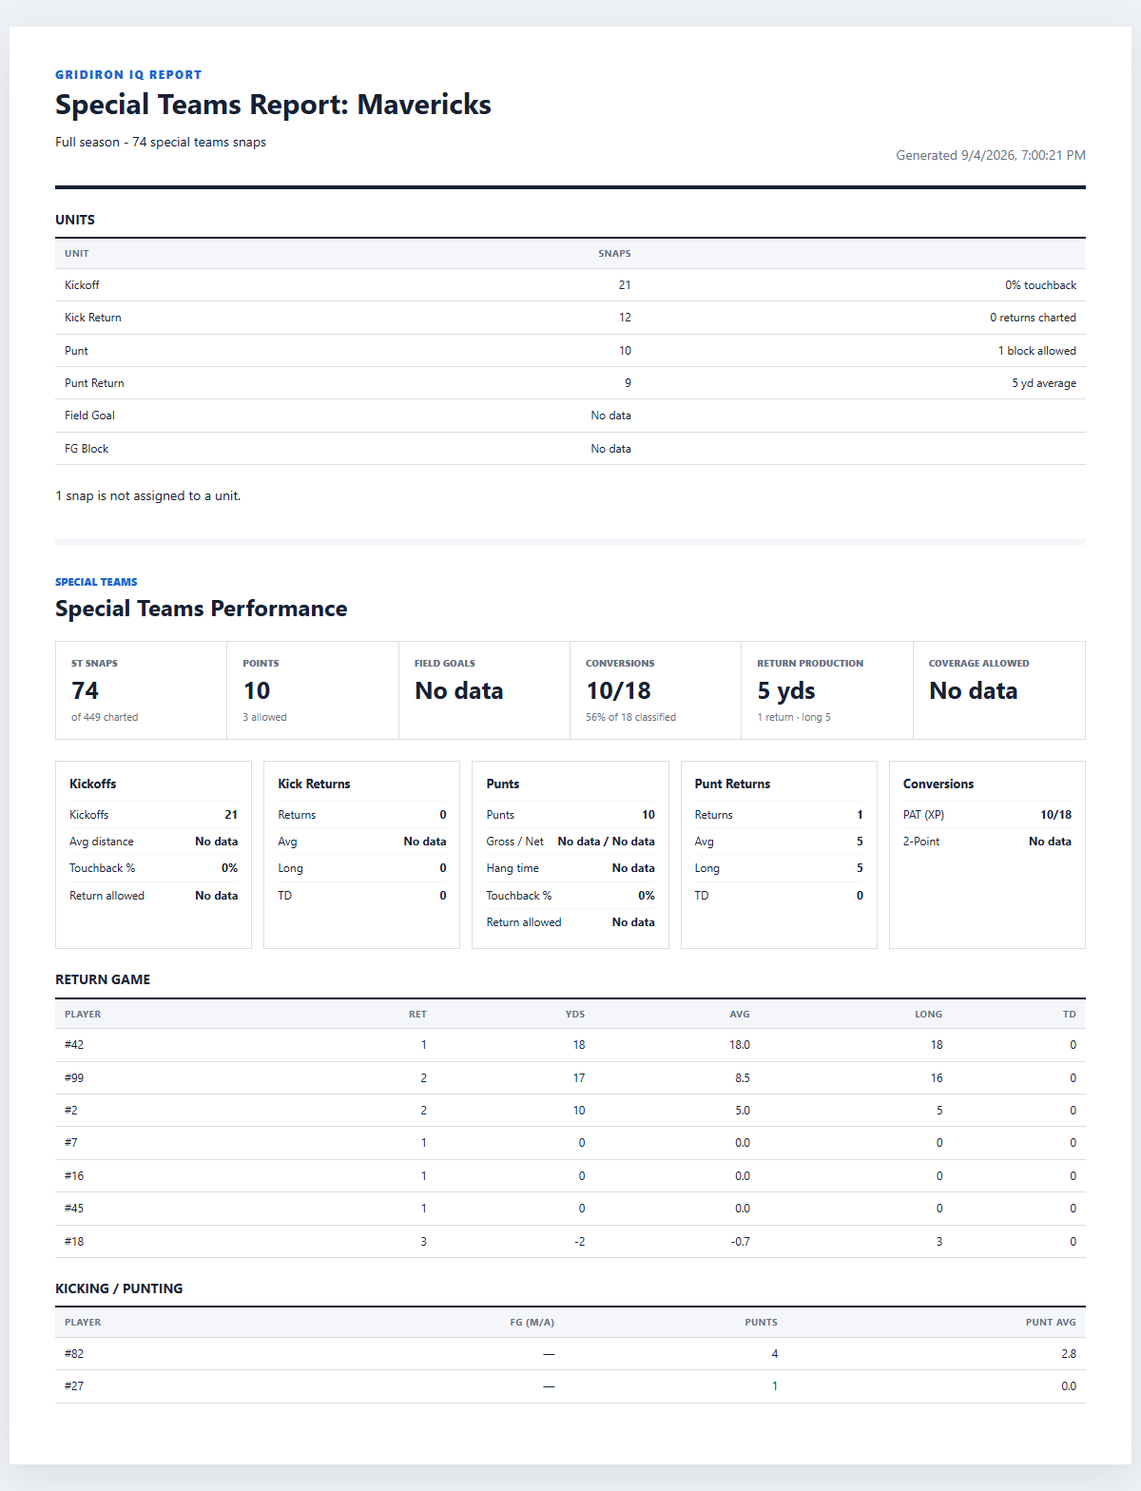
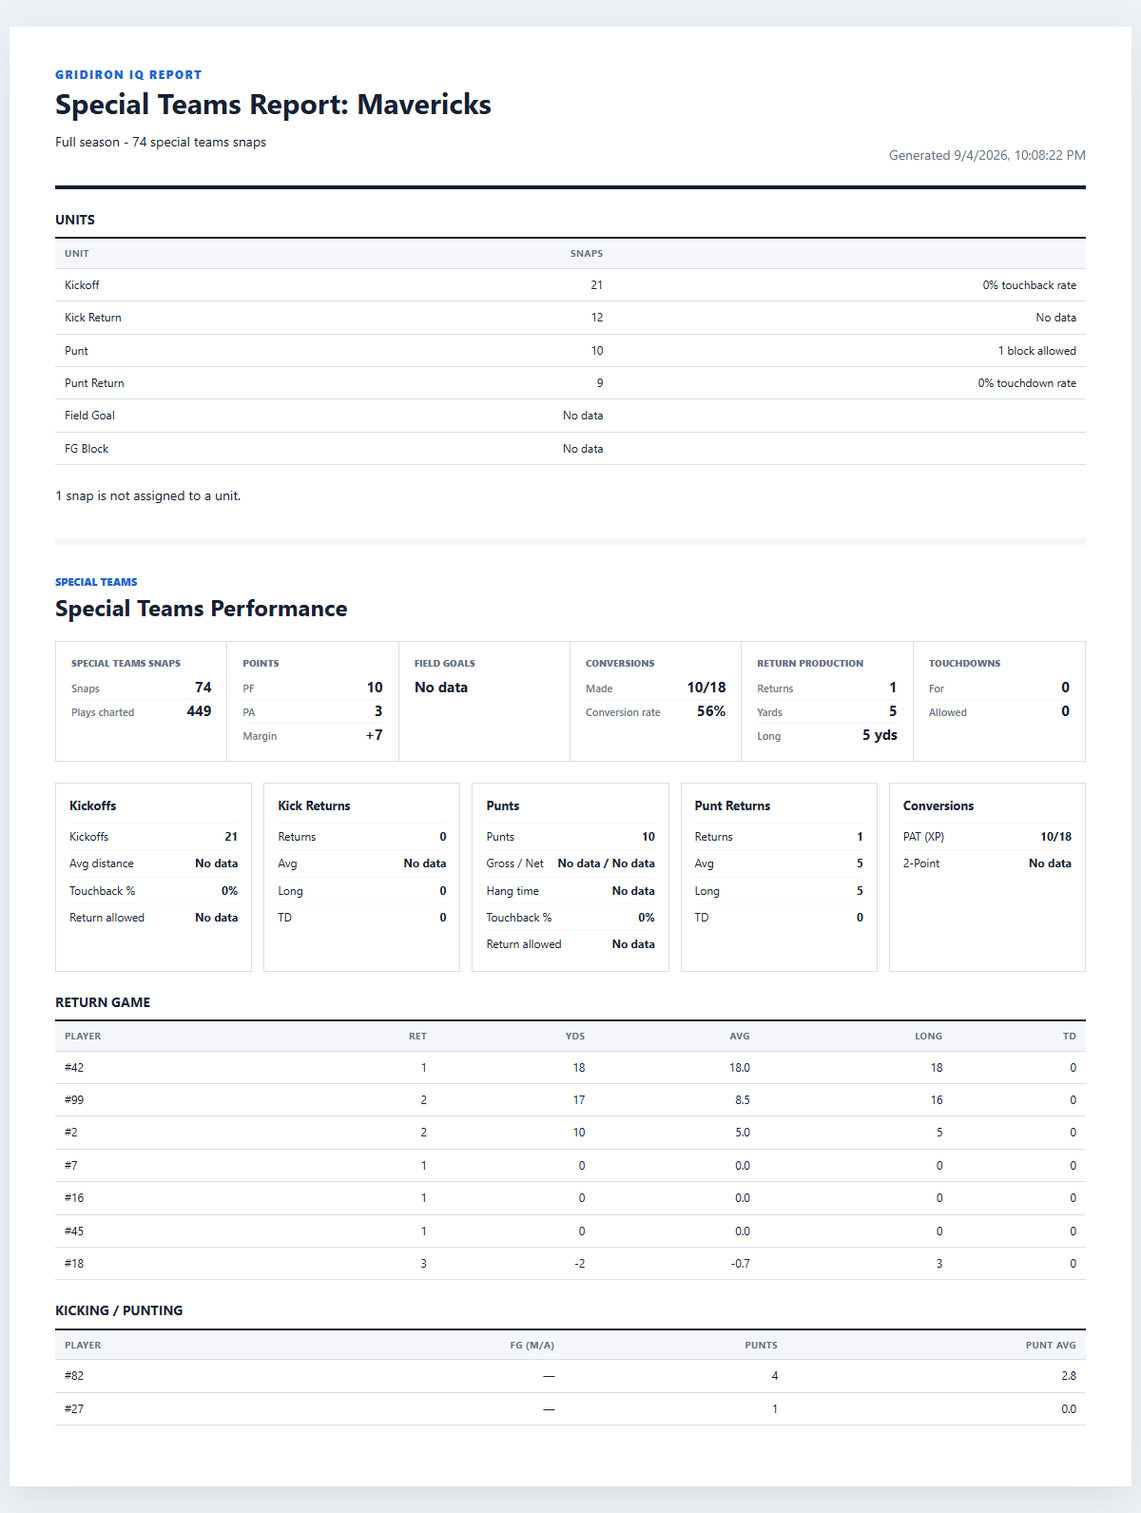
fix: Special Teams export, outcome bars, export button, and the evidence
Seven review findings.

P1 -- the printed report exported three KPI tiles blank. The board's tiles
carry NAMED values (`stats`), not the `value`/`sub` pair the generic
`metrics()` band reads, so Special Teams Snaps, Points and Touchdowns rendered
as empty headlines. `stMetrics` gives each named value its own label/value row.
Section 11 of `e2e-reports-special-teams` compares the rendered board's figures
against the exported HTML; mutation-verified against the generic band, where it
reds naming the three missing values.

P2 -- the outcome bars scaled to the largest bucket, so whatever led always
filled the track and a 29% outcome read as the whole unit. The width is now the
share the bar states.

P2 -- Export Report was an unstyled white browser default inside the board.
`.btn` is scoped `:not(.ws-shell *)` and supplies nothing there, so the board
carries its own rest/hover/focus-visible treatment, as Defense does.

P2 -- the production evidence was incomplete and obstructed. It covered only
Full season, and every image carried the film-repair toast. Recaptured across
both scopes at all three widths, with the toast dismissed through the overlay
service rather than removed from the DOM -- the host is a Preact view over the
service state, so removing the node only got it re-rendered.

P3 -- the RATIONALE said the composition was approved near the top and
unapproved further down, and still claimed production had never been reviewed.
[…]

diff --git a/js/html-report.js b/js/html-report.js
@@ -48,12 +48,28 @@ const defenseTables = report => {
   return `<section class="chapter"><div class="chapter-title"><span>Defense</span><h1>Defensive Performance</h1></div>${summary}${table('Opponent Offense by Play Type', columns, report.playTypes)}${table('Situational Defense', columns.map(c => ({ ...c, label: c.key === 'name' ? 'Situation' : c.label })), report.situations)}</section>`;
 };
 
+/**
+ * Special Teams KPI tiles for the printed report. The screen's tiles carry
+ * NAMED values on a line (`stats`), not a `value`/`sub` pair, so the generic
+ * `metrics()` band renders them blank -- it reads fields these tiles no longer
+ * have. Each named value gets its own label/value row: joining them into the
+ * band's 25px display `<strong>` wrapped one tile over three lines and printed
+ * the stat's label at headline size beside its own number.
+ */
+const stMetrics = items => `<div class="metric-band">${items.map(item => {
+  const rows = item.stats
+    ? item.stats.flat().map(([label, value]) =>
+      `<p><span>${esc(label)}</span><strong>${esc(value)}</strong></p>`).join('')
+    : `<p><strong>${esc(item.value ?? '')}</strong></p>`;
+  return `<div class="metric"><span>${esc(item.label)}</span><div class="metric-stats">${rows}</div></div>`;
+}).join('')}</div>`;
+
 const specialTeams = (stats, summary) => {
   const phases = view.specialTeamsPhases(stats);
   const players = view.individualStats(stats, 'special', num => `#${num}`);
   if (!phases.length && !players.length) return '';
   return `<section class="chapter"><div class="chapter-title"><span>Special Teams</span><h1>Special Teams Performance</h1></div>
-    ${metrics(view.specialTeamsKpis(stats, summary))}
+    ${stMetrics(view.specialTeamsKpis(stats, summary))}
     <div class="phase-grid">${phases.map(phase => `<div class="phase"><h3>${esc(phase.title)}</h3>${phase.rows.map(row => `<p><span>${esc(row[0])}</span><strong>${esc(row[1])}</strong></p>`).join('')}</div>`).join('')}</div>
     ${players.map(playerTable).join('')}</section>`;
 };
@@ -95,7 +111,7 @@ const sharedBody = ({ stats, engine, gameLabels = null, rosterLabels = null, def
 
 const stylesheet = `
   :root{color-scheme:light;--ink:#172033;--muted:#667085;--line:#d8dee8;--soft:#f4f6f9;--blue:#1d66d1;--gold:#d99a00;--green:#16875b}
-  *{box-sizing:border-box}body{margin:0;background:#eef1f5;color:var(--ink);font:14px/1.45 Inter,"Segoe UI",Arial,sans-serif}.page{max-width:1180px;margin:28px auto;background:#fff;padding:42px 48px;box-shadow:0 12px 40px #17203318}.masthead{display:flex;justify-content:space-between;gap:28px;align-items:flex-end;border-bottom:4px solid var(--ink);padding-bottom:22px}.brand{color:var(--blue);font-size:12px;font-weight:800;text-transform:uppercase;letter-spacing:.12em}.masthead h1,.chapter-title h1{margin:5px 0 0;font-size:30px;line-height:1.08}.meta{color:var(--muted);text-align:right}.metric-band{display:grid;grid-template-columns:repeat(auto-fit,minmax(145px,1fr));border:1px solid var(--line);margin:22px 0}.metric{min-height:96px;padding:15px 16px;border-right:1px solid var(--line)}.metric:last-child{border-right:0}.metric span,.metric small{display:block;color:var(--muted)}.metric span{font-size:10px;text-transform:uppercase;font-weight:800}.metric strong{display:block;font-size:25px;line-height:1.1;margin:7px 0}.metric small{font-size:11px}.chapter{border-top:7px solid var(--soft);padding-top:28px;margin-top:34px}.chapter-title span{color:var(--blue);font-size:11px;text-transform:uppercase;font-weight:800}.chapter-title h1{font-size:24px}.report-section{margin:22px 0}.report-section h2{font-size:14px;text-transform:uppercase;border-bottom:2px solid var(--ink);padding:0 0 8px;margin:0}.two-up{display:grid;grid-template-columns:1fr 1fr;gap:24px}.table-wrap{overflow:hidden}table{border-collapse:collapse;width:100%;font-size:12px}th{color:var(--muted);font-size:10px;text-align:left;text-transform:uppercase;letter-spacing:.04em;background:var(--soft)}th,td{border-bottom:1px solid var(--line);padding:8px 10px}td:not(:first-child),th:not(:first-child){text-align:right}.phase-grid{display:grid;grid-template-columns:repeat(auto-fit,minmax(180px,1fr));gap:12px;margin:20px 0}.phase{border:1px solid var(--line);padding:14px}.phase h3{margin:0 0 8px;font-size:13px}.phase p{display:flex;justify-content:space-between;margin:0;padding:5px 0;border-top:1px solid var(--soft);font-size:12px}.empty{color:var(--muted)}
+  *{box-sizing:border-box}body{margin:0;background:#eef1f5;color:var(--ink);font:14px/1.45 Inter,"Segoe UI",Arial,sans-serif}.page{max-width:1180px;margin:28px auto;background:#fff;padding:42px 48px;box-shadow:0 12px 40px #17203318}.masthead{display:flex;justify-content:space-between;gap:28px;align-items:flex-end;border-bottom:4px solid var(--ink);padding-bottom:22px}.brand{color:var(--blue);font-size:12px;font-weight:800;text-transform:uppercase;letter-spacing:.12em}.masthead h1,.chapter-title h1{margin:5px 0 0;font-size:30px;line-height:1.08}.meta{color:var(--muted);text-align:right}.metric-band{display:grid;grid-template-columns:repeat(auto-fit,minmax(145px,1fr));border:1px solid var(--line);margin:22px 0}.metric{min-height:96px;padding:15px 16px;border-right:1px solid var(--line)}.metric:last-child{border-right:0}.metric span,.metric small{display:block;color:var(--muted)}.metric span{font-size:10px;text-transform:uppercase;font-weight:800}.metric strong{display:block;font-size:25px;line-height:1.1;margin:7px 0}.metric small{font-size:11px}.metric-stats{margin-top:7px}.metric-stats p{display:flex;justify-content:space-between;gap:10px;align-items:baseline;margin:0;padding:3px 0;font-size:12px}.metric-stats p+p{border-top:1px solid var(--soft)}.metric-stats span{display:block;color:var(--muted);font-size:11px;text-transform:none;font-weight:600}.metric-stats strong{font-size:15px;margin:0}.chapter{border-top:7px solid var(--soft);padding-top:28px;margin-top:34px}.chapter-title span{color:var(--blue);font-size:11px;text-transform:uppercase;font-weight:800}.chapter-title h1{font-size:24px}.report-section{margin:22px 0}.report-section h2{font-size:14px;text-transform:uppercase;border-bottom:2px solid var(--ink);padding:0 0 8px;margin:0}.two-up{display:grid;grid-template-columns:1fr 1fr;gap:24px}.table-wrap{overflow:hidden}table{border-collapse:collapse;width:100%;font-size:12px}th{color:var(--muted);font-size:10px;text-align:left;text-transform:uppercase;letter-spacing:.04em;background:var(--soft)}th,td{border-bottom:1px solid var(--line);padding:8px 10px}td:not(:first-child),th:not(:first-child){text-align:right}.phase-grid{display:grid;grid-template-columns:repeat(auto-fit,minmax(180px,1fr));gap:12px;margin:20px 0}.phase{border:1px solid var(--line);padding:14px}.phase h3{margin:0 0 8px;font-size:13px}.phase p{display:flex;justify-content:space-between;margin:0;padding:5px 0;border-top:1px solid var(--soft);font-size:12px}.empty{color:var(--muted)}
   @media(max-width:760px){.page{margin:0;padding:24px}.masthead{display:block}.meta{text-align:left;margin-top:12px}.two-up{grid-template-columns:1fr}.metric-band{grid-template-columns:repeat(2,1fr)}.metric{border-bottom:1px solid var(--line)}}
   @media print{body{background:#fff}.page{box-shadow:none;margin:0;max-width:none;padding:20px}.chapter{break-before:auto}.report-section,.phase{break-inside:avoid}}
 `;

diff --git a/js/native-report-tabs.jsx b/js/native-report-tabs.jsx
@@ -1257,15 +1257,17 @@ function UnitModule({ title, meta, rows, refs, label, screen, cls = '' }) {
 /** How a unit's snaps actually ended. Each bar opens exactly its own plays. */
 function OutcomeBars({ items, screen, unit }) {
   if (!items.length) return <p class="gi-st-empty">{view.ST_NO_DATA}</p>;
-  const max = Math.max(1, ...items.map(item => item.n));
   return <div class="gi-st-outcomes">{items.map(item => {
     const label = `${unit} — ${item.label}`;
     return <WatchableRefs key={item.key} tag="button" type="button" class="gi-st-outcome"
       refs={item.refs} label={label} screen={screen} title={`${label}, ${item.n}`}>
       <span class="gi-st-outcome-label">{item.label}</span>
       <span class="gi-st-outcome-bar">
+        {/* The bar's width is the SHARE it states, not its size against the
+            biggest bar. Scaling to the max made whatever led always fill the
+            track, so a 29% outcome read as the whole unit. */}
         {item.tone === 'blank' ? null : <i class={item.tone ? `is-${item.tone}` : ''}
-          style={`width:${Math.round(item.n / max * 100)}%`} />}
+          style={`width:${item.pct}%`} />}
       </span>
       <span class="gi-st-outcome-value">{item.n} ({item.pct}%)</span>
     </WatchableRefs>;

diff --git a/css/native-reports.css b/css/native-reports.css
@@ -2351,6 +2351,17 @@
   background:var(--gi-bd-control-active);color:var(--gi-bd-strong);
   box-shadow:inset 0 -3px var(--gi-bd-cyan)
 }
+/* The shared `.btn` rule is scoped `:not(.ws-shell *)`, so inside the shell it
+   supplies nothing and the control fell back to a white browser default in
+   every capture. Same treatment Defense gives its own export button. */
+.gi-reports .gi-st-board .gi-st-export{
+  min-height:32px;padding:0 var(--gi-3x);border:1px solid var(--gi-bd-line);border-radius:0;
+  background:var(--gi-bd-control);color:var(--gi-bd-copy);font:var(--gi-text-label);cursor:pointer
+}
+.gi-reports .gi-st-board .gi-st-export:hover{
+  background:var(--gi-bd-control-active);color:var(--gi-bd-strong);border-color:var(--gi-bd-bone)
+}
+.gi-reports .gi-st-board .gi-st-export:focus-visible{ outline:2px solid var(--gi-bd-cyan);outline-offset:2px }
 .gi-reports .gi-st-export{ margin-left:auto }
 
 @media(max-width:1360px){

diff --git a/design-comps/reports-special-teams-2026-09-04/RATIONALE.md b/design-comps/reports-special-teams-2026-09-04/RATIONALE.md
@@ -15,9 +15,12 @@ the capture pass's copy audit.
 
 **All eight open product decisions were ruled on by Charlie on 2026-09-04** and
 are recorded in §7. Four are reflected in the comp; three are approved
-production changes that no production file carries yet; one is recorded with no
-work attached. **The composition itself has not been approved** — that is still
-the open gate.
+production changes; one is recorded with no work attached. Their build status is
+tracked in the §7 table, not here.
+
+**The open gate is the Charlie Gate** — populated real-data review of the built
+tab at the release widths, then PASS / REVISE / REJECT. The composition is
+approved; acceptance of the implementation is not.
 
 Comp: `design-comps/reports-special-teams-2026-09-04/special-teams.html`
 Captures: `design-comps/reports-special-teams-2026-09-04/captures/` (78 files)
@@ -415,19 +418,19 @@ the number can be audited without re-deriving it.
 
 The questions below were open when the comp was first posted. Every one now has
 a ruling, recorded verbatim in intent. Items marked **comp** are reflected in
-`special-teams.html` already; items marked **production** are approved work
-that the stop boundary still covers and that no production file carries yet.
+`special-teams.html` already. The **Status** column is the live build state, and
+it is the only place in this file that states one.
 
-| # | Decision | Where it lands |
+| # | Decision | Status |
 |---|---|---|
-| 1 | Export approved — reuse the existing Reports export mechanism, no ST-only exporter | comp + production |
-| 2 | Tries: 18 stays the denominator; display `18 classified · 3 unclassified · 21 charted`; unclassified are never misses and never enter a percentage | **comp — done** |
-| 3 | Fix `_individualStats` to use the canonical Field Goal cohort | **production — pending** |
-| 4 | Remove the fixed 20-yard touchback assumption; show not-derivable | comp done, **production pending** |
+| 1 | Export approved — reuse the existing Reports export mechanism, no ST-only exporter | **built** — `exportSpecialTeams` → `buildSpecialTeamsHtmlReport` → the shared `documentShell` and `window.ffaSaveBlob` |
+| 2 | Tries: 18 stays the denominator; display `18 classified · 3 unclassified · 21 charted`; unclassified are never misses and never enter a percentage | **denominator built; the display line was removed** by Charlie the same day ("wtf does classified mean?"). The 18-attempt denominator stands; the classification breakdown is gone from both comp and production |
+| 3 | Fix `_individualStats` to use the canonical Field Goal cohort | **built** — `StatsEngine.isFieldGoalAttempt` / `isFieldGoalMade`, mutation-verified |
+| 4 | Remove the fixed 20-yard touchback assumption; show not-derivable | **built** — legacy punt net returns null on a touchback rather than subtracting 20 |
 | 5 | Do not build ST measures from generic `yardage`/`result` yet; record for a later projection decision | **recorded, no work** |
-| 6 | Fake stays disclosed as unassigned; no seventh unit; correction path later | **comp — already correct** |
-| 7 | Context-bar wrapping approved, via the shared shell owner | comp done, **production pending** |
-| 8 | Special Teams uses the shared report header/scorebug when it rolls across Reports; no ST variant | **comp — already correct** |
+| 6 | Fake stays disclosed as unassigned; no seventh unit; correction path later | **built** — the unassigned-snap line renders only when such a snap exists |
+| 7 | Context-bar wrapping approved, via the shared shell owner | **not built** — shared shell owner; the shell's response to a taller bar still needs verifying |
+| 8 | Special Teams uses the shared report header/scorebug when it rolls across Reports; no ST variant | **recorded** — Special Teams stays out of `SCOREBUG_TABS` until that header rolls |
 
 ### What each ruling changed
 
@@ -446,7 +449,7 @@ named on the tile itself, and the section footnote states the three are
 **unclassified, not missed**. Nothing counts them as failures and nothing
 divides by 21.
 
-**3 · Field-goal cohort — production, pending.** `_individualStats` must use
+**3 · Field-goal cohort — built.** `_individualStats` now uses
 the same canonical Field Goal cohort as `_specialTeamsStats`. A player cannot
 hold an attempt the unit does not recognize. The real-data fixture still shows
 today's measured output (#99 credited 0/1 while the unit reports 0 attempts),
@@ -454,7 +457,7 @@ because that fixture is evidence of the engine's current behavior. **Once the
 fix lands, that cell reads `—` and the discrepancy disappears from the comp's
 own real-data state.** The fixture is deliberately not pre-corrected.
 
-**4 · Punt net — done in the comp, pending in production.** The fixed 20-yard
+**4 · Punt net — built.** The fixed 20-yard
 touchback subtraction is removed. Net on a legacy touchback with no configured
 ruleset is **not derivable**, and the comp says exactly that — a third absence
 state (`not derivable — no ruleset`), distinct from `not charted`, because here
@@ -473,7 +476,7 @@ play stays visible in the reconciliation line as unassigned until it can be
 associated with its underlying punt, field-goal, or try unit. The correction
 path is later work.
 
-**7 · Context bar — approved, production pending.** Long game names wrap at
+**7 · Context bar — approved, not built.** Long game names wrap at
 1280 instead of clipping. The comp does this, but it is **shared chrome and
 belongs to the shell owner**, so the production change lands there, not in this
 tab. It must be verified that the bar's height changes cleanly and never
@@ -604,10 +607,6 @@ Four, none of which the automated audit could see:
 
 ### Not checked
 
-- **No production code was run, changed, or reviewed against this comp.** It is
-  a comp; the tab is untouched.
-- **No harness, and no gate run** — the assignment excluded both. The capture
-  script lives in `scratchpad/`, is not part of the gate, and is not committed.
 - **Mobile and tablet** (768×1024, 390×844) were not designed or captured. The
   assignment scoped this to desktop.
 - **The Opponent Scout variant** (`OpponentSpecialTeamsTab`) is mapped in §4
@@ -616,4 +615,6 @@ Four, none of which the automated audit could see:
 - **Structured-charting states were not validated against real data**, because
   none exists: all 74 real ST snaps are legacy. The populated fixture is
   plausible and internally reconciled, but it is invented.
-- **No Charlie Gate.** This is a comp awaiting approval, not accepted state.
+- **No Charlie Gate.** The composition is approved and the tab is built and
+  gate-verified against `tools/e2e-reports-special-teams.mjs`, but no populated
+  real-data review has been signed off, so this is not accepted state.

diff --git a/CLAUDE.md b/CLAUDE.md
@@ -382,6 +382,20 @@ no Special-Teams-only scorebug variant is invented. Export reuses the existing
 mechanism (`exportSpecialTeams` → `buildSpecialTeamsHtmlReport` → the shared
 `documentShell` and `window.ffaSaveBlob`), never a second export subsystem.
 
+**The printed report has its own KPI band renderer, and needs one.** The board's
+tiles carry NAMED values (`stats`), not the `value`/`sub` pair the generic
+`metrics()` band reads, so three tiles — Special Teams Snaps, Points and
+Touchdowns — exported as empty headlines. `stMetrics` gives each named value its
+own label/value row; flattening them into the band's 25px display `<strong>`
+wrapped one tile over three lines and printed a stat's label at headline size
+beside its own number. Covered by section 11 of `e2e-reports-special-teams`,
+which compares the rendered board's figures against the exported HTML and is
+mutation-verified against the generic band.
+
+**The outcome bars are absolute, not relative.** Scaling each bar to the
+largest bucket made a 29% outcome fill the whole track; the width is the
+bucket's own percentage of its unit.
+
 **Two approved production changes are still pending, carried by no file:**
 the context bar wrapping long game names at 1280 instead of clipping (shared
 shell owner — and the shell's response to a taller bar still needs verifying),
@@ -460,15 +474,32 @@ product is wrong.
    wrapping long game names at 1280 rather than clipping (shared shell owner;
    the shell's response to a taller bar still needs verifying), and Special
    Teams joining the shared report header when that rolls across Reports.
-5. **OPEN DEFECT — a legacy punt block is reported as a punt we allowed.**
-   Found by the coach at the board, 2026-09-05. **Assigned to Codex.**
+5. **RECORDED — full-season Special Teams sits under a game-specific frame.**
+   The generic Reports rail above the board is the *current game*'s: it names
+   the week and opponent and shows that game's final score, total plays and
+   success rate. The Special Teams board's own scope control defaults to
+   **Full season**, so the default state pairs season figures with a
+   single-game header. Nothing on the board is wrong — its own scope chip says
+   Full season — but the two rows disagree about what is on screen.
+   Not fixed here by design: the frame belongs to the shared report header
+   (ruling 8), which Special Teams joins when that header rolls across
+   Reports. Resolve it there, with Overview and Offense, rather than giving
+   Special Teams a one-off.
+
+6. **OPEN DEFECT — a legacy punt block is reported as a punt we allowed.**
+   Found by the coach at the board, 2026-09-04. **Assigned to Codex.**
 
    The Punt unit reports `Blocked 1` on `2025-st-joseph-mavericks-jv`. The
    coach charted the opposite: **we blocked their punt.** Holy Family, Q2,
-   play id 16 — 4th & 6, ball on the opponent's 8, `result: Loss`,
-   `yardage: -5`, `kickOutcome: Blocked`, and the only player charted is
-   `players.tackler: '82'`. Nobody punts from the opponent's 8; they were
-   backed up at their own 8 and #82 blocked it.
+   play id 16 — 4th & 6, `result: Loss`, `yardage: -5`,
+   `kickOutcome: Blocked`, and the only player charted is
+   `players.tackler: '82'`.
+
+   The evidence for whose punt it was is the coach's own account plus the
+   player role: a `tackler` and no `kicker`. The play's field position (the 8)
+   does **not** settle it — ST field position carries no proven owner
+   perspective in the stored model, so it cannot distinguish our own 8 from
+   theirs. Do not cite it as proof.
 
    Root cause: the legacy branch of `_specialTeamsStats` treats **every**
    `stType:'Punt'` as our own punt team — `const pp = by('Punt')`, then
@@ -492,13 +523,13 @@ product is wrong.
    a perspective signal in the legacy projection, an honest disclosure that
    legacy cannot attribute the kick, or re-charting those plays structured.
 
-6. **Reports > Defense Charlie Gate** — populated real-data review at the
+7. **Reports > Defense Charlie Gate** — populated real-data review at the
    release widths, then PASS / REVISE / REJECT, plus an installed smoke.
-7. **Offense still scrolls; Defense uses tabs.** The coach approved section
+8. **Offense still scrolls; Defense uses tabs.** The coach approved section
    tabs for Defense on 2026-09-04 with Offense converting in a later pass, so
    the two reports navigate differently until that lands. Recorded as a known
    temporary inconsistency, not an oversight.
-8. **Three Defense band gaps** — Run / pass faced 78px, Opponent play type
+9. **Three Defense band gaps** — Run / pass faced 78px, Opponent play type
    86px, Situational defense 72px. They come from genuinely different row
    counts in real data; closing them means stretching table rows or full-width
    tables, both of which were tried and rejected. Carried into the Charlie Gate.
@@ -528,8 +559,8 @@ Full tiers, commands, and what each tier can and cannot certify:
 Reports harnesses: `tools/e2e-native-reports.mjs` (the route as a whole, 106),
 `tools/e2e-reports-offense.mjs` (the Offense composition, its football contracts
 and the shared scorebug rule, 46) and `tools/e2e-reports-special-teams.mjs`
-(the Special Teams composition, its absence contract and the two engine
-corrections, 40).
+(the Special Teams composition, its absence contract, the two engine
+corrections and the printed export, 45).
 
 Non-negotiable:
 - A failing-first regression for every repaired defect. Watch it fail for the
